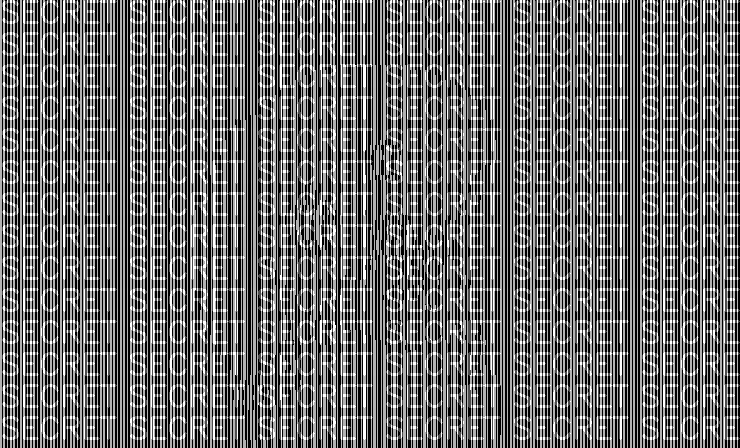
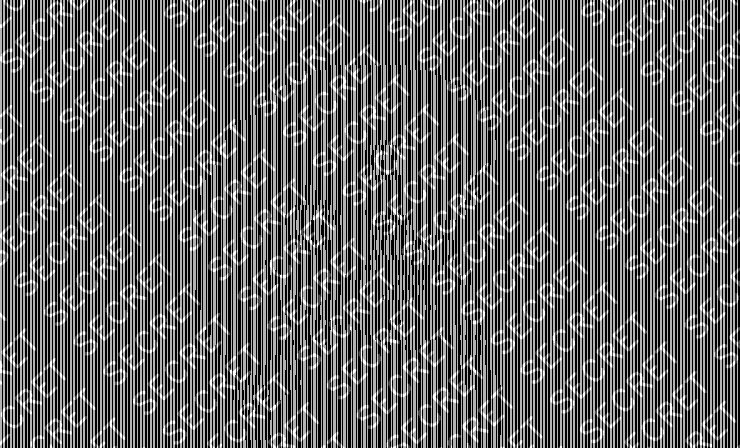
Add parameters for text font, scale, angle, word spacing, and letter spacing

diff --git a/src/utils.py b/src/utils.py
@@ -1,5 +1,5 @@
-import numpy as np
 import cv2
+import numpy as np
 
 
 def adjust_brightness(image, min_val=15, max_val=240):
@@ -80,26 +80,91 @@ def generate_shifted_key(K, shift):
     return K_shifted
 
 
-def create_text_image(text, height, width, font_scale=1, thickness=2):
+def create_text_image(
+    text,
+    height,
+    width,
+    font=cv2.FONT_HERSHEY_SIMPLEX,
+    font_scale=1,
+    thickness=2,
+    angle=0,
+    spacing_x=1.2,
+    spacing_y=1.2,
+    letter_spacing=0,
+):
     """
-    Create an image with repeated text to be hidden.
+    Create an image with repeated, rotated text to cover the entire image without overlap, with adjustable letter spacing.
 
     Args:
         text (str): Text to hide.
         height (int): Image height.
         width (int): Image width.
+        font (int): OpenCV font type (default: cv2.FONT_HERSHEY_SIMPLEX).
         font_scale (float): Font size scaling factor (default: 1).
         thickness (int): Text thickness (default: 2).
+        angle (float): Text rotation angle in degrees (default: 0).
+        spacing_x (float): Horizontal spacing multiplier for text repetition (default: 1.2).
+        spacing_y (float): Vertical spacing multiplier for text repetition (default: 1.2).
+        letter_spacing (int): Pixel spacing between characters within each text instance (default: 0).
 
     Returns:
         numpy.ndarray: Normalized text image (0-1).
     """
-    T = np.zeros((height, width), dtype=np.uint8)
-    font = cv2.FONT_HERSHEY_SIMPLEX
-    text_size = cv2.getTextSize(text, font, font_scale, thickness)[0]
-    for y in range(0, height, text_size[1] + 10):
-        for x in range(0, width, text_size[0] + 10):
-            cv2.putText(
-                T, text, (x, y + text_size[1]), font, font_scale, 255, thickness
-            )
-    return T / 255.0
+    # Create a temporary canvas to calculate total text width with letter spacing
+    temp_canvas = np.zeros((100, 1000), dtype=np.uint8)
+    x_pos = 0
+    char_positions = []
+    for char in text:
+        char_size = cv2.getTextSize(char, font, font_scale, thickness)[0]
+        char_w = char_size[0]
+        char_positions.append((char, x_pos, char_w))
+        x_pos += char_w + letter_spacing
+
+    # Total text width including letter spacing
+    text_w = x_pos - letter_spacing if text else 0
+    text_h = cv2.getTextSize(text[0] if text else "A", font, font_scale, thickness)[0][
+        1
+    ]
+
+    # Account for rotation: calculate the bounding box of rotated text
+    angle_rad = np.radians(angle)
+    rotated_w = int(abs(text_w * np.cos(angle_rad)) + abs(text_h * np.sin(angle_rad)))
+    rotated_h = int(abs(text_w * np.sin(angle_rad)) + abs(text_h * np.cos(angle_rad)))
+
+    # Create a larger canvas to ensure coverage
+    diagonal = int(np.sqrt(height**2 + width**2)) + max(rotated_w, rotated_h)
+    canvas = np.zeros((diagonal, diagonal), dtype=np.uint8)
+
+    # Use customizable step sizes for text repetition
+    step_x = max(int(rotated_w * spacing_x), 1)
+    step_y = max(int(rotated_h * spacing_y), 1)
+
+    # Tile text across the canvas, starting from negative coordinates
+    for y in range(-rotated_h, diagonal + rotated_h, step_y):
+        for x_base in range(-rotated_w, diagonal + rotated_w, step_x):
+            for char, x_offset, _ in char_positions:
+                canvas = cv2.putText(
+                    canvas,
+                    char,
+                    (x_base + x_offset, y + text_h),
+                    font,
+                    font_scale,
+                    255,
+                    thickness,
+                )
+
+    # Rotate the canvas
+    if angle != 0:
+        M = cv2.getRotationMatrix2D((diagonal / 2, diagonal / 2), angle, 1)
+        canvas = cv2.warpAffine(canvas, M, (diagonal, diagonal), borderValue=0)
+
+    # Crop to the original image size, centered
+    start_x = (diagonal - width) // 2
+    start_y = (diagonal - height) // 2
+    T = canvas[start_y : start_y + height, start_x : start_x + width]
+
+    # Ensure the output matches the image size
+    if T.shape != (height, width):
+        T = cv2.resize(T, (width, height), interpolation=cv2.INTER_NEAREST)
+
+    return T / 255.0  # Normalize to 0-1

diff --git a/src/encode.py b/src/encode.py
@@ -1,3 +1,4 @@
+import cv2
 import numpy as np
 
 from utils import (
@@ -18,6 +19,12 @@ def encode_image(
     strip_width=10,
     chunk_height=50,
     amplitude=0.1,
+    font=cv2.FONT_HERSHEY_SIMPLEX,
+    font_scale=1,
+    text_angle=0,
+    spacing_x=1.2,
+    spacing_y=1.2,
+    letter_spacing=0,
 ):
     """
     Encode the image into vertical lines with varying thickness per chunk and hide text.
@@ -31,6 +38,12 @@ def encode_image(
         strip_width (int): Width of each vertical strip (default: 10).
         chunk_height (int): Height of each chunk (default: 50).
         amplitude (float): Strength of the stripe pattern (default: 0.1).
+        font (int): OpenCV font type (default: cv2.FONT_HERSHEY_SIMPLEX).
+        font_scale (float): Font size scaling factor (default: 1).
+        text_angle (float): Text rotation angle in degrees (default: 0).
+        spacing_x (float): Horizontal text spacing multiplier (default: 1.2).
+        spacing_y (float): Vertical text spacing multiplier (default: 1.2).
+        letter_spacing (int): Pixel spacing between characters (default: 0).
 
     Returns:
         numpy.ndarray: Encoded image with lines and hidden text.
@@ -43,7 +56,18 @@ def encode_image(
     # Generate key patterns and text image
     K = generate_key_pattern(height, width, p, stripe_type="binary")
     K_shifted = generate_shifted_key(K, p // 2)
-    T_normalized = create_text_image(text_to_hide, height, width)
+    T_normalized = create_text_image(
+        text_to_hide,
+        height,
+        width,
+        font,
+        font_scale,
+        thickness=2,
+        angle=text_angle,
+        spacing_x=spacing_x,
+        spacing_y=spacing_y,
+        letter_spacing=letter_spacing,
+    )
 
     # Create the stripe pattern with hidden text
     E_stripe = K * (1 - T_normalized) + K_shifted * T_normalized

diff --git a/src/main.py b/src/main.py
@@ -25,6 +25,12 @@ def main():
     strip_width = 5  # Width of each vertical strip
     chunk_height = 5  # Height of each chunk
     amplitude = 0.3  # Strength of the hidden pattern
+    font = cv2.FONT_HERSHEY_SIMPLEX  # Font type
+    font_scale = 1  # Font size scaling
+    text_angle = 45  # Text rotation angle in degrees
+    spacing_x = 1.4  # Horizontal text spacing multiplier
+    spacing_y = 0.4  # Vertical text spacing multiplier
+    letter_spacing = 0  # Pixel spacing between characters
 
     # Load and preprocess the image
     try:
@@ -48,6 +54,12 @@ def main():
         strip_width,
         chunk_height,
         amplitude,
+        font,
+        font_scale,
+        text_angle,
+        spacing_x,
+        spacing_y,
+        letter_spacing,
     )
 
     # Decode the image to reveal the text
